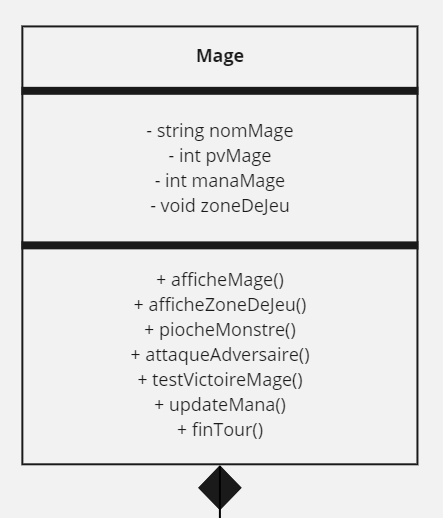
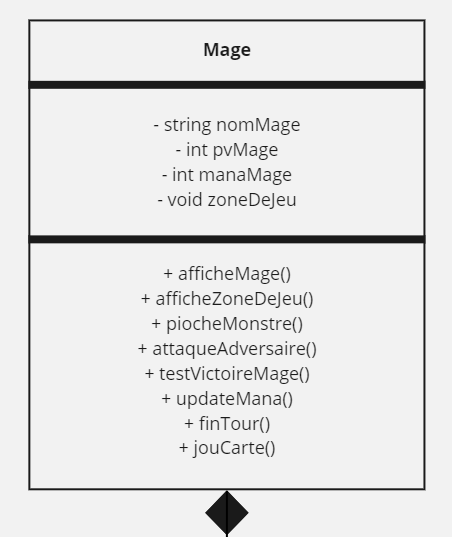
modif mage

Changed region(s): [[0.0293, 0.0309, 0.9684, 1.0]]

diff --git a/Mage.h b/Mage.h
@@ -11,15 +11,19 @@ class Mage{
         std:: string _nomMage;
         int _pvMage;
         void _zoneDeJeu;
+        int manaMage;
 
     public:
 
         Mage();
         void afficheMage();
         void afficheZoneDeJeu();
-        void ajoutMonstre();
+        //void ajoutMonstre(); cette fonction devient inutile une fois la pioche implémentée
+        void piocheMonstre();
         void attaqueAdversaire();
         bool testVictoireMage();
+        int updateMana();
+        void finTour();
 };
 
 

diff --git a/Mage.cpp b/Mage.cpp
@@ -15,10 +15,10 @@ void Mage:: afficheZoneDeJeu(){
     std:: cout << _zoneDeJeu << std::endl;
 }
 
-void Mage:: ajoutMonstre(){ // Ici je veux faire appel à la classe monstre afin de créer un monstre via cette classe
+/*void Mage:: ajoutMonstre(){ // Ici je veux faire appel à la classe monstre afin de créer un monstre via cette classe, cependant elle devient inutile une fois la pioche implémentée
     Monstre.getPV();
     Monstre.getAttaque();
-}
+}*/
 
 void Mage:: attaqueAdversaire(){
 
